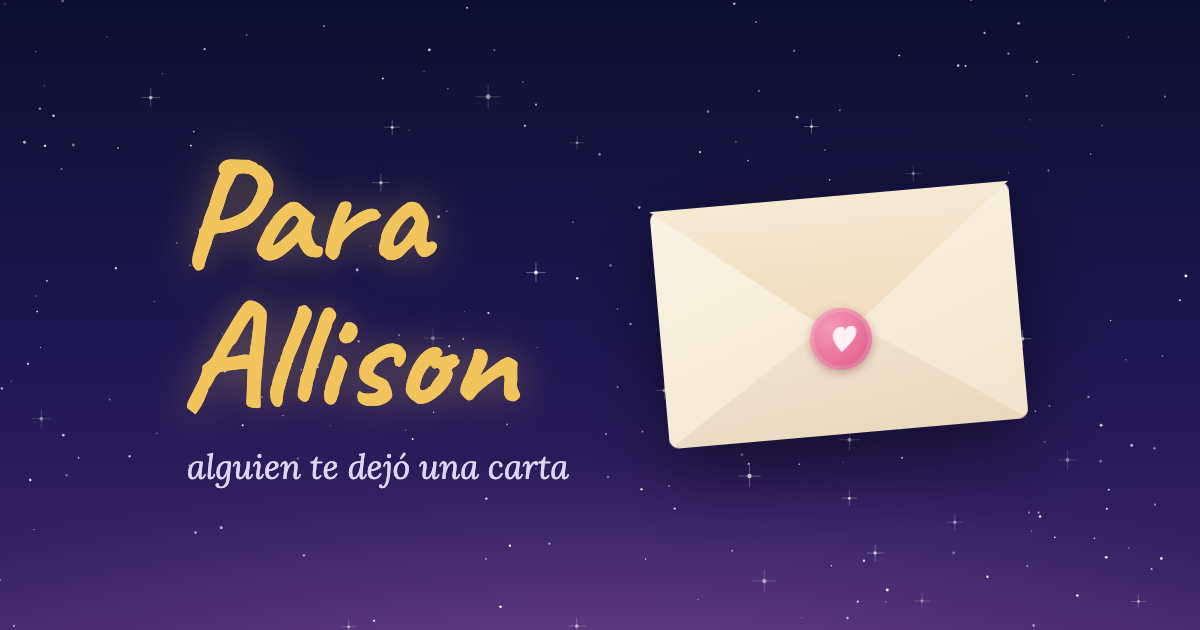
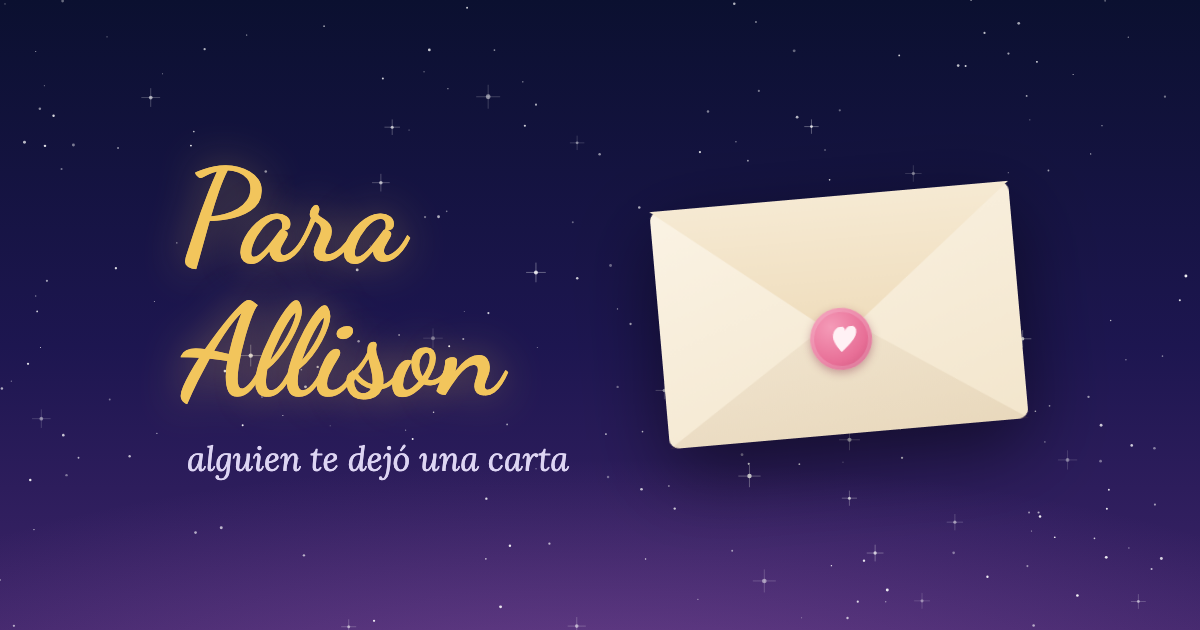
Letra estilo pluma (Dancing Script) en títulos y firma
- Reemplaza Caveat por Dancing Script en todos los textos manuscritos
- Regenera la imagen de vista previa con la nueva letra
- Ajusta el mensaje del deseo para que entre en una línea en celular

Changed region(s): [[0.1542, 0.4825, 0.4317, 0.6635], [0.1542, 0.2413, 0.37, 0.4222], [0.1542, 0.6937, 0.4933, 0.7841]]

diff --git a/src/styles.css b/src/styles.css
@@ -17,7 +17,7 @@
   --rule: 24px;
   --rule-color: rgba(110, 125, 175, 0.2);
 
-  --font-hand: 'Caveat', 'Segoe Script', cursive;
+  --font-hand: 'Dancing Script', 'Segoe Script', cursive;
   --font-serif: 'Lora', Georgia, 'Times New Roman', serif;
 
   color-scheme: dark;
@@ -413,7 +413,8 @@ button {
   min-height: 2.2em;
   margin: 6px 0 0;
   font-family: var(--font-hand);
-  font-size: 1.6rem;
+  font-size: clamp(1.3rem, 6vw, 1.6rem);
+  text-wrap: balance;
   line-height: 1.2;
   color: var(--pink-dark);
 }

diff --git a/index.html b/index.html
@@ -27,7 +27,7 @@
     <link rel="preconnect" href="https://fonts.gstatic.com" crossorigin />
     <link
       rel="stylesheet"
-      href="https://fonts.googleapis.com/css2?family=Caveat:wght@500;700&family=Lora:ital,wght@0,400;0,600;1,400&display=swap"
+      href="https://fonts.googleapis.com/css2?family=Dancing+Script:wght@500;700&family=Lora:ital,wght@0,400;0,600;1,400&display=swap"
     />
   </head>
   <body>

diff --git a/src/hooks/useFontsReady.ts b/src/hooks/useFontsReady.ts
@@ -1,6 +1,6 @@
 import { useEffect, useState } from 'react'
 
-const FONTS = ['700 1em Caveat', '400 1em Lora', 'italic 400 1em Lora']
+const FONTS = ['700 1em "Dancing Script"', '400 1em Lora', 'italic 400 1em Lora']
 
 /**
  * true cuando las fuentes de Google ya cargaron (o pasó el tiempo límite),
